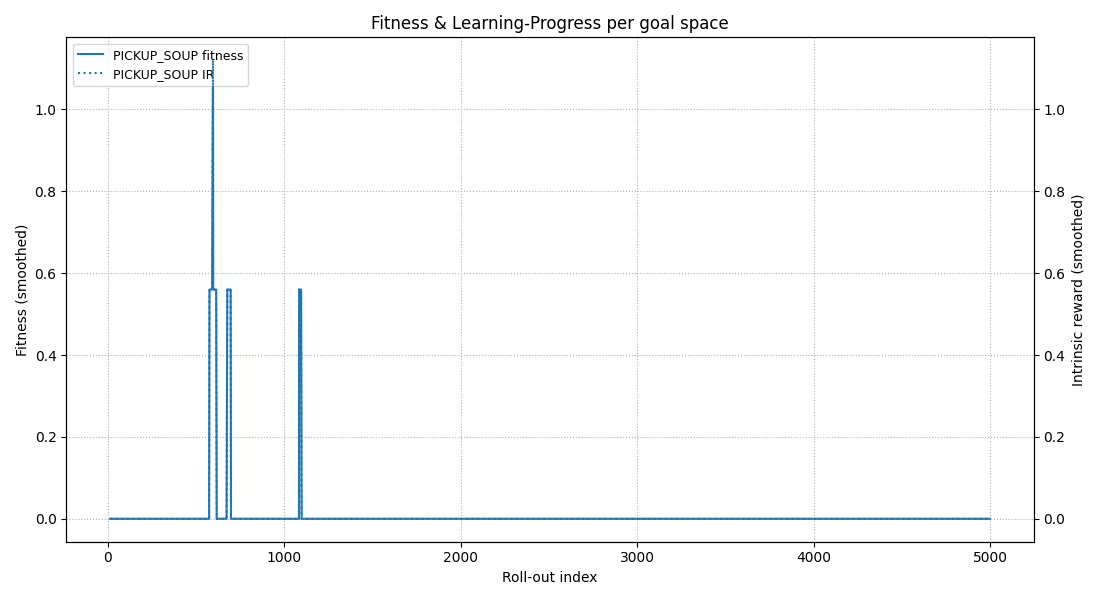
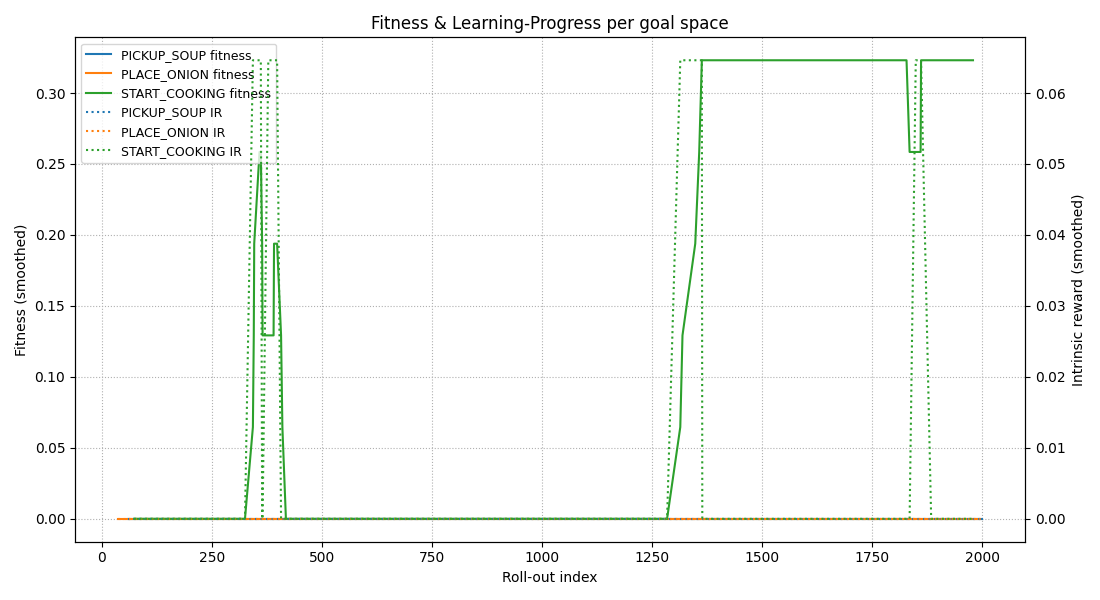
Refactor goal spaces and neuro policy integration; adjust rollout parameters

diff --git a/IMGEP_agent/agent/agent.py b/IMGEP_agent/agent/agent.py
@@ -38,7 +38,6 @@ class IMGEPAgent(Agent):
             GoalSpaceNeuroPolicy] = []  # List of neuro policies the 0th element being active
         self.t = 0
         self.goal_reach_time_step = None
-        self.exploit = False
         self.rollout_fitness = 0.0
         self.path = []  # This will hold the path of actions to take
 
@@ -52,18 +51,20 @@ class IMGEPAgent(Agent):
         self.goal_reach_time_step = None
         self.rollout_fitness = 0.0
         self.previous_state = None
-        self.exploit = random.random() < EXPLOIT_PROB
+        exploit = random.random() < EXPLOIT_PROB
         chosen_goal = select_goal_space(all_goal_spaces=self.goal_spaces, kb=self.kb)
-        neuro_policy = get_neuro_policy(selected_goal=chosen_goal, kb=self.kb, exploit=self.exploit)
+        neuro_policy = get_neuro_policy(selected_goal=chosen_goal, kb=self.kb, exploit=exploit,
+                                        goal_spaces=self.goal_spaces)
         self.goal_space_neuro_policies = [
-            GoalSpaceNeuroPolicy(goal=chosen_goal, neuro_policy=neuro_policy)
+            GoalSpaceNeuroPolicy(goal=chosen_goal, neuro_policy=neuro_policy, exploit=exploit)
         ]  # Put the main neuro policy in the first position
+
 
     def action(self, state: OvercookedState) -> Action:
         self.t += 1
 
         gs = self.goal_space_neuro_policies[-1].goal
-
+        exploit = self.goal_space_neuro_policies[-1].exploit
         if self.goal_reach_time_step:
             # If we have reached the goal, perform a random action
             legal_actions = list(Action.MOTION_ACTIONS)
@@ -78,8 +79,10 @@ class IMGEPAgent(Agent):
             else:
                 self.goal_space_neuro_policies.pop()
 
-        if self.previous_state and (self.goal_reach_time_step is None or self.t == self.goal_reach_time_step):
-            self.rollout_fitness += gs.fitness(
+        if self.previous_state and (self.goal_reach_time_step is None or self.t == self.goal_reach_time_step) and len(
+                self.goal_space_neuro_policies) == 1:
+            self.rollout_fitness += self.goal_space_neuro_policies[0].goal.fitness(
+                # Only add the fitness of the first goal space
                 pick_step=self.goal_reach_time_step,
                 state=state,
                 previous_state=self.previous_state,
@@ -95,14 +98,26 @@ class IMGEPAgent(Agent):
                              self.agent_id)
 
         # ----------------- high-level action selection ----------------------
-        greedy = self.exploit
-
-        token = HighLevelActions(
-            self.goal_space_neuro_policies[-1].neuro_policy.select_token(obs_vec, greedy=greedy))
-
-        # ----------------- path planning ----------------------------------
-        motion_goals = get_motion_goals(self.mlam, self.mdp, token, state)
-        self.path = get_plan(state.players[self.agent_id].pos_and_or, motion_goals, self.mlam)
+        neuro_policy_token = self.goal_space_neuro_policies[-1].neuro_policy.select_token(obs_vec, greedy=exploit)
+        if neuro_policy_token < len(HighLevelActions):
+            # If the token is a high-level action, we need to get the motion goals for that action
+            token = HighLevelActions(neuro_policy_token)
+            motion_goals = get_motion_goals(self.mlam, self.mdp, token, state)
+            self.path = get_plan(state.players[self.agent_id].pos_and_or, motion_goals, self.mlam)
+            print(self.path)
+        else:
+            self.goal_space_neuro_policies.append(
+                GoalSpaceNeuroPolicy(
+                    goal=self.goal_spaces[neuro_policy_token - len(HighLevelActions)],
+                    neuro_policy=get_neuro_policy(
+                        selected_goal=self.goal_spaces[neuro_policy_token - len(HighLevelActions)],
+                        kb=self.kb,
+                        exploit=True,
+                        goal_spaces=self.goal_spaces
+                    ),
+                    exploit=True
+                )
+            )
 
 
         if not self.path:
@@ -122,14 +137,15 @@ class IMGEPAgent(Agent):
         # intrinsic reward = Δ fitness vs nearest prior experiment
         goal = self.goal_space_neuro_policies[0].goal  # The first goal is the main goal space
         neuro_policy = self.goal_space_neuro_policies[0].neuro_policy
+        exploit = self.goal_space_neuro_policies[0].exploit
 
-        prev_record = self.kb.nearest(goal, 1, exploit=self.exploit)
+        prev_record = self.kb.nearest(goal, 1, exploit=exploit)
         prev_f = prev_record[0].fitness if prev_record else 0.0
 
         fitness_difference = self.rollout_fitness - prev_f
         r_i = max(0.0, fitness_difference)
 
-        if self.exploit:
+        if exploit:
             record_amount = 1
         else:
             record_amount = max(1, int(10 * r_i))
@@ -144,6 +160,6 @@ class IMGEPAgent(Agent):
                 theta=neuro_policy.theta,
                 fitness=self.rollout_fitness,
                 intrinsic_reward=r_i,
-                exploit=self.exploit,
+                exploit=exploit,
                 rollout_idx=rollout_idx,
             ))

diff --git a/IMGEP_agent/agent/goals/goal_spaces.py b/IMGEP_agent/agent/goals/goal_spaces.py
@@ -7,12 +7,9 @@ from overcooked_ai_py.mdp.overcooked_mdp import OvercookedGridworld, OvercookedS
 
 
 class GoalSpaceEnum(IntEnum):
-    PICK_ONION = 0
-    PICK_DISH = 1
-    PLACE_ONION = 2
-    START_COOKING = 3
-    PICKUP_SOUP = 4
-    DELIVER_SOUP = 5
+    PLACE_ONION = 1
+    START_COOKING = 2
+    PICKUP_SOUP = 3
 
     @classmethod
     def get_goal_space_name(cls, value: int) -> str:
@@ -28,8 +25,6 @@ class Goal:
         self.goal_id = goal_id
         self.fitness = fitness_fn
         self.success = success_fn
-
-
 
 
 def pick_object_space(goal_id: GoalSpaceEnum, object_code: int) -> Goal:
@@ -83,9 +78,7 @@ def place_object_space(goal_id: GoalSpaceEnum, object_code: int) -> Goal:
 
 
 def start_cooking_space() -> Goal:
-    pick_onion = pick_object_space(GoalSpaceEnum.PICK_ONION, ItemCode.ONION.value)
     place_onion = place_object_space(GoalSpaceEnum.PLACE_ONION, ItemCode.ONION.value)
-
     def fitness(pick_step: int, state: OvercookedState, previous_state: OvercookedState,
                 agent_id: int, mdp: OvercookedGridworld):
         prev_pots = set(mdp.get_cooking_pots(mdp.get_pot_states(previous_state)))
@@ -95,7 +88,9 @@ def start_cooking_space() -> Goal:
         prev_agent = previous_state.players[agent_id]
         adj = mdp.get_adjacent_features(prev_agent)
         adj_positions = {pos for pos, _ in adj}
-
+        if place_onion.success(agent_id, state, previous_state, mdp):
+            place_onion_fitness = place_onion.fitness(pick_step, state, previous_state, agent_id, mdp)
+            return place_onion_fitness / 4
         for p in new:
             if p in adj_positions:
                 current_pot_state = state.get_object(p)
@@ -107,46 +102,46 @@ def start_cooking_space() -> Goal:
         prev_pots = set(mdp.get_cooking_pots(mdp.get_pot_states(previous_state)))
         curr_pots = set(mdp.get_cooking_pots(mdp.get_pot_states(state)))
         new = curr_pots - prev_pots
+        if not new:
+            return False
         curr_agent = state.players[agent_id]
         adj = mdp.get_adjacent_features(curr_agent)
         adj_positions = {pos for pos, _ in adj}
-        return any(p in adj_positions for p in new)
+        is_success = any(p in adj_positions for p in new)
+        return is_success
 
     return Goal(GoalSpaceEnum.START_COOKING, fitness_fn=fitness, success_fn=success)
 
 
 def pickup_soup_space() -> Goal:
     start_cooking = start_cooking_space()
-    pick_dish = pick_object_space(GoalSpaceEnum.PICK_DISH, ItemCode.DISH.value)
-
     def fitness(pick_step: int, state: OvercookedState, previous_state: OvercookedState,
                 agent_id: int, mdp: OvercookedGridworld):
-        player = state.players[agent_id]
+        player: PlayerState = state.players[agent_id]
+        previous_player: PlayerState = previous_state.players[agent_id]
         held = player.get_object() if player.has_object() else None
+
         if held and held.name == 'soup':
             return held.value / 65
-        if not any(mdp.get_cooking_pots(mdp.get_pot_states(state))):
-            return start_cooking.fitness(pick_step, state, previous_state, agent_id, mdp)
-        if previous_state.players[agent_id].has_object() and ItemCode.ItemCodeValue(
-                previous_state.players[agent_id].get_object().name) == ItemCode.ONION.value:
-            return -0.2
-        if pick_dish.success(agent_id, state, previous_state, mdp):
-            return 0.2
+
+        if start_cooking.success(agent_id, state, previous_state, mdp):
+            start_cooking_fitness = start_cooking.fitness(pick_step, state, previous_state, agent_id, mdp)
+            return start_cooking_fitness / 2
         return 0.0
 
     def success(agent_id: int, state: OvercookedState, previous_state: OvercookedState,
                 mdp: OvercookedGridworld):
-        player = state.players[agent_id]
+        player: PlayerState = state.players[agent_id]
         held = player.get_object() if player.has_object() else None
-        return bool(held and held.name == 'soup')
+        if held and held.name == 'soup':
+            return True
+        return False
 
     return Goal(GoalSpaceEnum.PICKUP_SOUP, fitness_fn=fitness, success_fn=success)
 
 
 def create_goal_spaces() -> List[Goal]:
     return [
-        pick_object_space(GoalSpaceEnum.PICK_ONION, ItemCode.ONION.value),
-        pick_object_space(GoalSpaceEnum.PICK_DISH, ItemCode.DISH.value),
         place_object_space(GoalSpaceEnum.PLACE_ONION, ItemCode.ONION.value),
         start_cooking_space(),
         pickup_soup_space(),

diff --git a/IMGEP_agent/agent/neuro_policy/neuro_policy.py b/IMGEP_agent/agent/neuro_policy/neuro_policy.py
@@ -1,5 +1,6 @@
 # neuro_policy.py
 import random
+from typing import List
 
 import numpy as np
 
@@ -17,11 +18,11 @@ def he_init(fan_in: int, fan_out: int) -> np.ndarray:
 
 
 class NeuroPolicy:
-    def __init__(self, theta: np.ndarray | None = None):
+    def __init__(self, goal_spaces: List[Goal], theta: np.ndarray | None = None):
 
         self.inp_dim = OBS_VEC_SIZE  # from obs_to_vec()
         self.hidden_dim = NEURO_POLICY_HIDDEN_DIM
-        self.num_tokens = len(HighLevelActions)
+        self.num_tokens = len(HighLevelActions) + len(goal_spaces)
 
         if theta is None:  # fresh initialization
             W1 = he_init(self.inp_dim, self.hidden_dim)
@@ -74,26 +75,27 @@ class GoalSpaceNeuroPolicy:
     A NeuroPolicy that is specialized for a specific goal space.
     """
 
-    def __init__(self, goal: Goal, neuro_policy: NeuroPolicy):
+    def __init__(self, goal: Goal, neuro_policy: NeuroPolicy, exploit: bool):
         self.goal = goal
         self.neuro_policy = neuro_policy
+        self.exploit = exploit
 
 
-def get_neuro_policy(selected_goal: Goal, kb: KnowledgeBase, exploit: bool) -> NeuroPolicy:
+def get_neuro_policy(selected_goal: Goal, kb: KnowledgeBase, goal_spaces: List[Goal], exploit: bool) -> NeuroPolicy:
     # TODO include the shared episode reward into the policy selection.
     # TODO this should probably be done on reset. The shared episode reward should be a scalar from 0 tot 1 depending on the 50 recent episodes shared reward
 
     if not kb.nearest(selected_goal, 1):
-        return NeuroPolicy()
+        return NeuroPolicy(goal_spaces)
     rec = kb.nearest(selected_goal, PARENT_POLICY_RECENT_RECORDS)
     if exploit:
         # exploit: use the best policy from the knowledge base
         best_idx = np.argmax([r.fitness for r in rec])
-        return NeuroPolicy(theta=rec[best_idx].theta)
+        return NeuroPolicy(theta=rec[best_idx].theta, goal_spaces=goal_spaces)
 
     # explore: pick a random parent policy to mutate from
     parent_policy = random.choice(rec)
     adaptive_noise = ADAPTIVE_NOISE_STD / (
             parent_policy.intrinsic_reward + ADAPTIVE_NOISE_STD)  # more noise when progress is low
     child_theta = parent_policy.theta + np.random.normal(0, adaptive_noise, parent_policy.theta.shape)
-    return NeuroPolicy(theta=child_theta)
+    return NeuroPolicy(theta=child_theta, goal_spaces=goal_spaces)

diff --git a/IMGEP_agent/hyper_parameters.py b/IMGEP_agent/hyper_parameters.py
@@ -1,6 +1,6 @@
 # ROLLOUT PARAMETERS
 HORIZON = 100  # number of steps to run per rollout
-ROLLOUTS = 5000  # number of rollouts to run
+ROLLOUTS = 2000  # number of rollouts to run
 LAYOUT_ID = 21  # layout index to use from the layouts list in overcooked_ai_py
 LOAD_KB = False  # whether to load the knowledge base from a file or not
 
@@ -10,9 +10,9 @@ EXPLOIT_PROB = 0.2  # probability of exploiting the current policy
 ### NEURAL NETWORK PARAMETERS
 NEURO_POLICY_HIDDEN_DIM = 64  # hidden layer size for the neural network policy
 ADAPTIVE_NOISE_STD = 0.1  # standard deviation for the adaptive noise added to the policy outputs
-PARENT_POLICY_RECENT_RECORDS = 50  # number of recent records to consider when selecting a parent policy for exploration
+PARENT_POLICY_RECENT_RECORDS = 20  # number of recent records to consider when selecting a parent policy
 
 ### GOAL SELECTION PARAMETERS
 GOAL_EMA_K = 20  # How many past exploit records to include in the EMA
-GOAL_EMA_ALPHA = 0.5  # Smoothing factor for the EMA (0 < ALPHA <= 1)
+GOAL_EMA_ALPHA = 0.6  # Smoothing factor for the EMA (0 < ALPHA <= 1)
 GOAL_GREEDY_PROB = 0.8  # Probability of selecting the greedy goal space

diff --git a/imrl_agent_new/core/goal_spaces.py b/imrl_agent_new/core/goal_spaces.py
@@ -64,8 +64,6 @@ def place_object_space(length_of_trajectory: int, name, object_code) -> Goal:
 
 def start_cooking_space(length_of_trajectory: int) -> Goal:
     """Goal: start cooking a requested object; reward falls as cooking time ↑."""
-    pick_onion_goal = pick_object_space(length_of_trajectory, "PICK_ONION", ItemCode.ONION.value)
-    place_onion_goal = place_object_space(length_of_trajectory, "PICK_ONION", ItemCode.ONION.value)
 
     def fitness(pick_step: int, state: OvercookedState, previous_state: OvercookedState,
                 agent_id: int, mdp: OvercookedGridworld):
